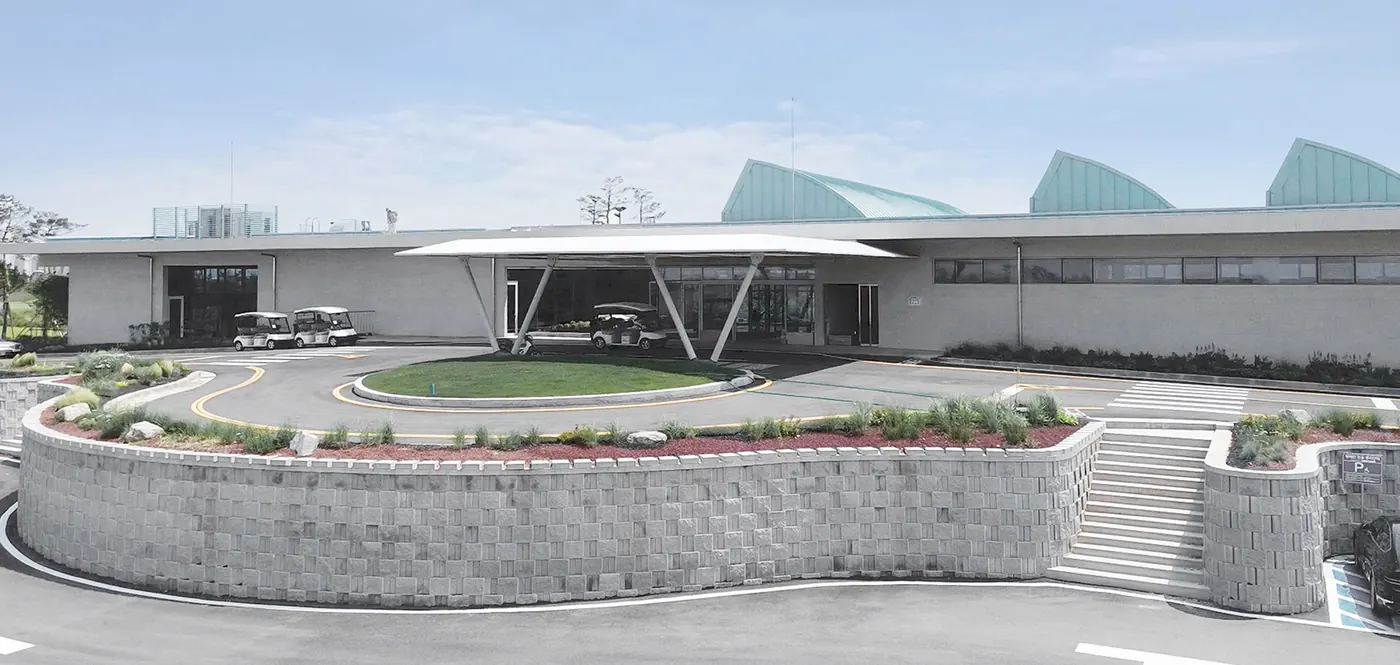
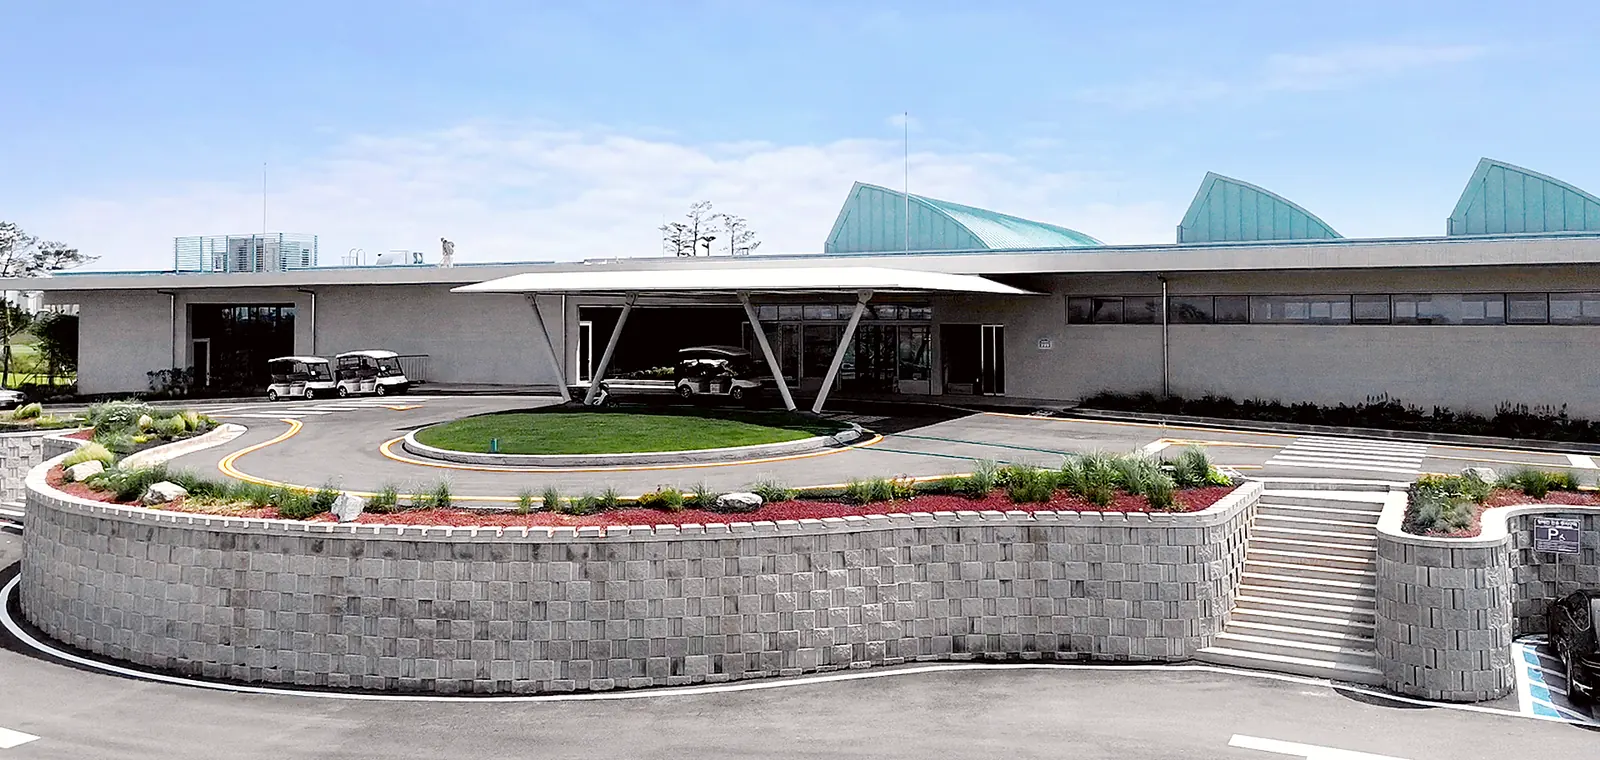
강점 중심 리디자인: 큰 숫자 4개, 사진 타일, 그린피 공식, 사진 색보정·히어로 교체

Changed region(s): [[0.0, 0.2105, 1.0, 0.9624], [0.5221, 0.2406, 0.645, 0.3308], [0.43, 0.3008, 0.4607, 0.3308]]

diff --git a/index.html b/index.html
@@ -11,12 +11,12 @@
   <meta name="Yeti" content="noindex, nofollow" />
 
   <title>플라밍고CC 이용권</title>
-  <meta name="description" content="라미드그룹이 운영하는 당진 플라밍고CC. 기명 2인과 동반 3인 모두 정상 그린피 50% 할인, 4,400만원부터" />
+  <meta name="description" content="당진 플라밍고CC 천연잔디 36홀. 기명 2인과 동반 3인 모두 정상 그린피 50% 할인, 4,400만원부터" />
   <meta name="theme-color" content="#17483a" />
   <meta property="og:type" content="website" />
   <meta property="og:url" content="https://culeisure.github.io/flamingocc/" />
   <meta property="og:title" content="플라밍고CC 이용권" />
-  <meta property="og:description" content="라미드그룹이 운영하는 당진 플라밍고CC. 기명 2인과 동반 3인 모두 정상 그린피 50% 할인, 4,400만원부터" />
+  <meta property="og:description" content="당진 플라밍고CC 천연잔디 36홀. 기명 2인과 동반 3인 모두 정상 그린피 50% 할인, 4,400만원부터" />
   <meta property="og:image" content="https://culeisure.github.io/flamingocc/img/og.jpg" />
   <meta property="og:image:width" content="1200" />
   <meta property="og:image:height" content="630" />
@@ -32,7 +32,7 @@
     href="https://cdn.jsdelivr.net/gh/orioncactus/pretendard@v1.3.9/dist/web/static/pretendard.min.css" />
   <link rel="stylesheet"
     href="https://fonts.googleapis.com/css2?family=Noto+Serif+KR:wght@400;500;600;700&display=swap" />
-  <link rel="stylesheet" href="style.css?v=2" />
+  <link rel="stylesheet" href="style.css?v=3" />
 </head>
 <body>
 
@@ -53,15 +53,15 @@
         <img class="lock__brand" src="img/logo.png" alt="Flamingo Country Club" />
       </div>
       <div class="lock__body">
-        <p class="lock__eyebrow">라미드그룹이 운영하는 당진 플라밍고CC</p>
-        <p class="lock__lead">주말 부킹 때마다<br />그린피가 부담이셨다면</p>
-        <h1 class="lock__title">동반자까지 그린피 50%<br /><em>4,400만원부터</em></h1>
+        <p class="lock__eyebrow">당진 플라밍고CC · 천연잔디 36홀</p>
+        <p class="lock__lead">나 혼자가 아니라<br />함께 치는 세 명까지</p>
+        <h1 class="lock__title">그린피 50%<br /><em>4,400만원부터</em></h1>
         <p class="lock__sub">플라밍고CC 이용권 안내</p>
         <ul class="lock__chips">
           <li>기명 2인 + 동반 3인</li>
-          <li>정상 그린피 50% 할인</li>
-          <li>천연잔디 36홀</li>
-          <li>만기 10년 이용권</li>
+          <li>정상 그린피 50%</li>
+          <li>만기 10년</li>
+          <li>명의변경 가능</li>
         </ul>
         <div class="lock__cta">
           <a class="btn btn--main" href="tel:01040873443" data-track="cta_call" data-track-pos="hero">전화 상담</a>
@@ -92,147 +92,119 @@
     </div>
 
     <main>
-      <!-- ===== 01 핵심 혜택 ===== -->
-      <section class="block block--intro reveal" aria-labelledby="ben-title">
+      <!-- ===== 01 한눈에 ===== -->
+      <section class="block block--intro reveal" aria-labelledby="fact-title">
         <span class="sec-label">01</span>
-        <h2 class="block__title" id="ben-title">플라밍고CC 이용권<br />핵심 혜택</h2>
-        <p class="block__desc">회원권이 아니라 이용권입니다. 입회비 없이 보증금과 시설이용관리비만 내고, 10년 동안 이용권 요금으로 라운드합니다.</p>
-        <ol class="benefits">
-          <li>
-            <span class="benefits__n">01</span>
-            <div>
-              <p class="benefits__t">정상 그린피 50% 할인</p>
-              <p class="benefits__d">예약 당일 골프장 정상 그린피의 50%를 냅니다. 회원 요금표가 따로 있는 방식이 아니라, 그날 그 시간대 정상 요금에서 반값입니다.</p>
-            </div>
-          </li>
-          <li>
-            <span class="benefits__n">02</span>
-            <div>
-              <p class="benefits__t">동반자 3인까지 동일 요금</p>
-              <p class="benefits__d">기명 2인 중 한 분이 함께 내장하면 동반자 3인까지 같은 요금으로 라운드합니다. 매번 같은 사람이 아니어도 됩니다.</p>
-            </div>
-          </li>
-          <li>
-            <span class="benefits__n">03</span>
-            <div>
-              <p class="benefits__t">주중 · 주말 횟수 별도 구성</p>
-              <p class="benefits__d">동반자 이용권은 주중 2회와 주말 2회, 무기명 이용권은 주중 3회와 주말 3회입니다. 주말 라운드가 많은 분에게 맞춘 구성입니다.</p>
-            </div>
-          </li>
-          <li>
-            <span class="benefits__n">04</span>
-            <div>
-              <p class="benefits__t">만기 10년 · 명의변경 가능</p>
-              <p class="benefits__d">10년 만기 이용권입니다. 중도 해지 대신 명의변경으로 다른 사람에게 넘길 수 있습니다.</p>
-            </div>
-          </li>
-        </ol>
+        <h2 class="block__title" id="fact-title">한눈에 보는 이용권</h2>
+        <div class="facts">
+          <div class="fact">
+            <b>50<small>%</small></b>
+            <span>그날 정상 그린피에서<br />절반 할인</span>
+          </div>
+          <div class="fact">
+            <b>2<i>+</i>3</b>
+            <span>기명 2인과<br />동반자 3인까지 동일</span>
+          </div>
+          <div class="fact">
+            <b>36<small>홀</small></b>
+            <span>매트 없는 천연잔디<br />4개 코스</span>
+          </div>
+          <div class="fact">
+            <b>10<small>년</small></b>
+            <span>만기 10년 이용권<br />명의변경 가능</span>
+          </div>
+        </div>
+        <p class="fact__foot">동반자 이용권 <b>4,400만원</b> · 무기명 이용권 <b>9,900만원</b></p>
       </section>
 
-      <!-- ===== 02 골프장 ===== -->
+      <!-- ===== 02 코스 강점 (사진 타일) ===== -->
       <section class="block block--tight reveal" aria-labelledby="course-title">
         <span class="sec-label">02</span>
-        <h2 class="block__title" id="course-title">매트 없는 천연잔디 36홀</h2>
-        <p class="block__desc">충남 당진 석문, 서해 간척지 34만 평에 링크스 · 파크 · 듄스 · 리버 네 개의 9홀 코스가 있습니다. 라미드그룹이 운영하며 2025년 12월 36홀 등록을 마쳤습니다.</p>
-        <div class="stats">
-          <div class="stats__item">
-            <b>36<small>홀</small></b>
-            <span>천연잔디<br />정규 코스</span>
-          </div>
-          <div class="stats__item">
-            <b>4<small>코스</small></b>
-            <span>링크스 · 파크<br />듄스 · 리버</span>
-          </div>
-          <div class="stats__item">
-            <b>705<small>m</small></b>
-            <span>링크스 2번 홀<br />국내 최장 파6</span>
-          </div>
-        </div>
+        <h2 class="block__title" id="course-title">왜 플라밍고CC인가</h2>
+        <p class="block__desc">서해 간척지 34만 평, 링크스 · 파크 · 듄스 · 리버 네 개의 9홀 코스. 라미드그룹이 운영하며 2025년 12월 36홀 등록을 마쳤습니다.</p>
       </section>
 
-      <section class="full reveal" aria-label="플라밍고CC 코스 전경">
-        <img src="img/course-wide.webp" alt="플라밍고CC 코스 항공 전경" loading="lazy" decoding="async" />
-        <div class="full__cap">
-          <p class="full__eyebrow">Flamingo Country Club</p>
-          <p>옆 홀이 보이지 않는<br />독립형 36홀</p>
-        </div>
+      <section class="tiles reveal" aria-label="플라밍고CC 코스 강점">
+        <figure class="tile tile--tall">
+          <img src="img/course-top.webp" alt="마운드와 연못으로 둘러싸인 그린" loading="lazy" decoding="async" />
+          <figcaption>
+            <span class="tile__k">독립 홀</span>
+            <b>라운드 내내<br />우리 팀만 보이는 코스</b>
+            <p>홀마다 마운드와 연못으로 가려져 옆 팀의 시선도, 날아드는 공도 없습니다. 전세 낸 듯 조용히 칩니다.</p>
+          </figcaption>
+        </figure>
+        <figure class="tile">
+          <img src="img/course-bunker.webp" alt="천연잔디 페어웨이와 벙커" loading="lazy" decoding="async" />
+          <figcaption>
+            <span class="tile__k">천연잔디</span>
+            <b>티박스부터 그린까지<br />매트 없이 잔디 위에서</b>
+            <p>관리된 잔디에서 치는 샷의 감각이 다릅니다.</p>
+          </figcaption>
+        </figure>
+        <figure class="tile">
+          <img src="img/aerial-sea.webp" alt="서해와 맞닿은 36홀 전경" loading="lazy" decoding="async" />
+          <figcaption>
+            <span class="tile__k">36홀</span>
+            <b>갈 때마다<br />다른 코스 조합</b>
+            <p>네 개 코스를 6홀 · 12홀 · 18홀로 조합합니다. 링크스 2번 홀은 국내 최장 705m 파6입니다.</p>
+          </figcaption>
+        </figure>
+        <figure class="tile">
+          <img src="img/clubhouse-night.webp" alt="플라밍고CC 클럽하우스 야경" loading="lazy" decoding="async" />
+          <figcaption>
+            <span class="tile__k">접근성</span>
+            <b>당진IC 15분,<br />수도권 서남부 1시간대</b>
+            <p>송악IC · 당진IC에서 4차선 산업도로로 바로 이어집니다.</p>
+          </figcaption>
+        </figure>
       </section>
 
-      <section class="block reveal" aria-label="플라밍고CC 코스 특징">
-        <ul class="points">
-          <li>
-            <span class="points__n">01</span>
-            <div>
-              <p class="points__t">홀 사이가 보이지 않는 독립형 코스</p>
-              <p class="points__d">평지형이지만 홀마다 마운드와 연못으로 구분되어 있어 라운드 중 옆 홀이 보이지 않습니다.</p>
-            </div>
-          </li>
-          <li>
-            <span class="points__n">02</span>
-            <div>
-              <p class="points__t">매트 없는 천연잔디 플레이</p>
-              <p class="points__d">매트 없이 천연잔디에서만 플레이합니다. 넓은 페어웨이와 티박스, 그린 관리에 공을 들이고 있습니다.</p>
-            </div>
-          </li>
-          <li>
-            <span class="points__n">03</span>
-            <div>
-              <p class="points__t">6홀 · 12홀 · 18홀 자유 조합</p>
-              <p class="points__d">9홀씩 네 개 코스를 6홀 · 12홀 · 18홀로 조합해 라운드합니다. 갈 때마다 다른 코스를 돌 수 있습니다.</p>
-            </div>
-          </li>
-          <li>
-            <span class="points__n">04</span>
-            <div>
-              <p class="points__t">송악IC · 당진IC 4차선 직결</p>
-              <p class="points__d">수도권 서남부에서 1시간대. 인천 · 시흥 · 안산 · 화성 · 평택에서 서해안고속도로로 이어집니다.</p>
-            </div>
-          </li>
-        </ul>
-
+      <section class="block reveal" aria-label="코스 구성">
         <ul class="courses">
           <li><span class="courses__k">링크스 <small>LINKS</small></span><b>Par 36 · 3,416m</b><em>2번 홀 705m 파6</em></li>
           <li><span class="courses__k">파크 <small>PARK</small></span><b>Par 36 · 3,290m</b></li>
           <li><span class="courses__k">듄스 <small>DUNES</small></span><b>Par 36 · 3,227m</b></li>
           <li><span class="courses__k">리버 <small>RIVER</small></span><b>Par 36 · 3,200m</b></li>
         </ul>
-
         <div class="gal" role="list">
-          <figure role="listitem"><img src="img/course-top.webp" alt="플라밍고CC 그린과 연못" loading="lazy" decoding="async" /><figcaption>그린과 연못, 위에서 본 코스</figcaption></figure>
-          <figure role="listitem"><img src="img/aerial-sea.webp" alt="서해를 배경으로 한 코스 전경" loading="lazy" decoding="async" /><figcaption>서해 간척지 위의 링크스</figcaption></figure>
-          <figure role="listitem"><img src="img/clubhouse-night.webp" alt="플라밍고CC 클럽하우스 야경" loading="lazy" decoding="async" /><figcaption>클럽하우스 야경</figcaption></figure>
           <figure role="listitem"><img src="img/terrace.webp" alt="클럽하우스 테라스" loading="lazy" decoding="async" /><figcaption>코스를 마주한 클럽하우스 테라스</figcaption></figure>
           <figure role="listitem"><img src="img/restaurant.webp" alt="클럽하우스 레스토랑" loading="lazy" decoding="async" /><figcaption>클럽하우스 레스토랑</figcaption></figure>
+          <figure role="listitem"><img src="img/course-lake.webp" alt="연못을 낀 홀" loading="lazy" decoding="async" /><figcaption>연못을 낀 홀</figcaption></figure>
         </div>
       </section>
 
-      <!-- ===== 03 그린피 계산 ===== -->
+      <!-- ===== 03 그린피 ===== -->
       <section class="block block--dark reveal" aria-labelledby="fee-title">
         <span class="sec-label">03</span>
-        <h2 class="block__title" id="fee-title">그린피 산정 방식</h2>
-        <p class="block__desc">예약하는 시점에 골프장 홈페이지에 공지된 정상 그린피에서 <strong>50%</strong>를 할인합니다. 시간대별로 정상 요금이 다르면 할인 후 금액도 달라집니다.</p>
-        <ul class="flow">
+        <h2 class="block__title" id="fee-title">회원 그린피는<br />그날 정상 그린피의 절반</h2>
+        <p class="block__desc">회원 요금표가 따로 있는 방식이 아닙니다. 예약하는 날, 그 시간대의 정상 그린피에서 50%를 뺀 금액이 회원 그린피입니다.</p>
+        <div class="formula">
+          <div class="formula__box"><small>그날 그 시간대</small><b>정상 그린피</b></div>
+          <span class="formula__op">÷ 2</span>
+          <div class="formula__box formula__box--hl"><small>기명 · 동반 3인 동일</small><b>회원 그린피</b></div>
+        </div>
+        <ul class="why">
           <li>
-            <b>이른 예약, 원하는 시간 확보</b>
-            <p>일찍 예약해 좋은 시간을 잡으면 그 시간대 정상 그린피의 50%를 냅니다.</p>
+            <b>정해진 회원가에 묶이지 않습니다</b>
+            <p>고정 회원가는 정상가가 내려가도 그대로입니다. 이 이용권은 정상가가 내려가면 회원가도 같이 내려갑니다.</p>
           </li>
           <li>
-            <b>늦은 예약, 내려간 요금의 50%</b>
-            <p>남은 시간대의 정상 그린피가 내려가 있으면 그 금액에서 다시 50%를 할인합니다.</p>
+            <b>시간대를 고르는 것은 회원의 몫</b>
+            <p>원하는 시간을 먼저 잡으면 그 시간대 요금의 절반, 요금이 내려간 시간대를 고르면 그 요금의 절반입니다.</p>
           </li>
           <li>
-            <b>취소 후 재예약도 동일 적용</b>
-            <p>취소가 가능한 기간이라면 취소 후 다시 예약해도 같은 방식으로 적용됩니다.</p>
+            <b>팀 전체가 절반</b>
+            <p>회원만 할인되고 동반자는 정상가인 방식이 아닙니다. 기명 2인 중 한 분이 함께 내장하면 동반자 3인까지 같은 요금입니다.</p>
           </li>
         </ul>
-        <p class="fine fine--dark">· 예약은 골프장 일반 예약 절차로 진행됩니다. 예약 우선권이나 예약 보장이 있는 상품은 아닙니다.</p>
+        <p class="fine fine--dark">· 예약은 골프장 일반 예약 절차로 진행되며 예약 우선권이나 예약 보장은 없습니다. 카트비는 별도입니다.</p>
       </section>
 
       <!-- ===== 04 이용권 ===== -->
       <section class="block reveal" aria-labelledby="prod-title">
         <span class="sec-label">04</span>
-        <h2 class="block__title" id="prod-title">동반자 4,400만원 ·<br />무기명 9,900만원</h2>
-        <p class="block__desc">함께 라운드하는 사람이 정해져 있는지, 횟수가 얼마나 필요한지에 따라 선택합니다.</p>
+        <h2 class="block__title" id="prod-title">이용권 2종</h2>
+        <p class="block__desc">함께 치는 사람이 정해져 있으면 동반자 이용권, 이용자를 정하지 않고 쓰려면 무기명 이용권입니다.</p>
 
         <article class="card">
           <div class="card__head">
@@ -242,7 +214,7 @@
           <ul class="card__rows">
             <li><span>이용자</span><b>기명 2인 + 동반 3인 <small>기명 2인 중 1인 내장</small></b></li>
             <li><span>이용 횟수</span><b>주중 2회 · 주말 2회</b></li>
-            <li><span>그린피</span><b>정상 그린피 50% 할인 <small>동반자 동일 적용</small></b></li>
+            <li><span>그린피</span><b>정상 그린피 50% <small>동반자 동일 적용</small></b></li>
             <li><span>금액 구성</span><b>보증금 4,000만원<br /><small>시설이용관리비 400만원은 반환되지 않는 비용</small></b></li>
             <li><span>기간</span><b>만기 10년 · 명의변경 가능</b></li>
           </ul>
@@ -255,9 +227,9 @@
             <p class="card__price"><em>9,900</em>만원</p>
           </div>
           <ul class="card__rows">
-            <li><span>이용자</span><b>기명 2인 + 동반 3인, 또는 무기명 4인<br /><small>6회 모두 무기명으로 이용할 수 있습니다</small></b></li>
+            <li><span>이용자</span><b>기명 2인 + 동반 3인, 또는 무기명 4인<br /><small>6회 모두 무기명으로 이용 가능</small></b></li>
             <li><span>이용 횟수</span><b>주중 3회 · 주말 3회</b></li>
-            <li><span>그린피</span><b>정상 그린피 50% 할인 <small>무기명 4인 동일 적용</small></b></li>
+            <li><span>그린피</span><b>정상 그린피 50% <small>무기명 4인 동일 적용</small></b></li>
             <li><span>금액 구성</span><b>보증금 9,000만원<br /><small>시설이용관리비 900만원은 반환되지 않는 비용</small></b></li>
             <li><span>기간</span><b>만기 10년 · 명의변경 가능</b></li>
             <li><span>활용</span><b>임직원 라운드 · 거래처 초청 <small>법인 이용에 적합</small></b></li>

diff --git a/style.css b/style.css
@@ -70,7 +70,7 @@ ul { list-style: none; }
 .lock__bg { position: absolute; inset: 0; }
 .lock__bg img {
   width: 100%; height: 100%;
-  object-fit: cover; object-position: center 55%;
+  object-fit: cover; object-position: center 50%;
   animation: heroZoom 14s ease-out both;
 }
 @keyframes heroZoom {
@@ -708,3 +708,73 @@ ul { list-style: none; }
   width: 3px; height: 3px; border-radius: 50%;
   background: var(--ink-soft);
 }
+
+/* ---------- 큰 숫자 4개 ---------- */
+.facts { display: grid; grid-template-columns: 1fr 1fr; gap: 10px; }
+.fact {
+  background: var(--paper);
+  border: 1px solid var(--line);
+  border-radius: 14px;
+  padding: 20px 14px 18px;
+  text-align: center;
+  box-shadow: var(--shadow);
+}
+.fact b {
+  display: block;
+  font-family: var(--serif);
+  font-size: 40px; font-weight: 700; line-height: 1;
+  color: var(--pine);
+  letter-spacing: -0.02em;
+  white-space: nowrap;
+}
+.fact b small { font-size: 16px; font-weight: 600; color: var(--flam); margin-left: 2px; }
+.fact b i { font-style: normal; font-size: 24px; color: var(--flam); margin: 0 2px; }
+.fact span { display: block; margin-top: 10px; font-size: 12.5px; line-height: 1.5; color: var(--ink-soft); }
+.fact__foot { margin-top: 14px; text-align: center; font-size: 13px; color: var(--ink-soft); }
+.fact__foot b { color: var(--pine); font-weight: 700; }
+
+/* ---------- 사진 타일 ---------- */
+.tiles { display: grid; grid-template-columns: 1fr 1fr; gap: 6px; padding: 0 6px; }
+.tile { position: relative; overflow: hidden; border-radius: 12px; background: var(--pine); margin: 0; }
+.tile--tall { grid-column: 1 / -1; }
+.tile img { width: 100%; height: 100%; aspect-ratio: 1 / 1.15; object-fit: cover; }
+.tile--tall img { aspect-ratio: 4 / 3.1; }
+.tile figcaption {
+  position: absolute; left: 0; right: 0; bottom: 0;
+  padding: 70px 16px 16px;
+  background: linear-gradient(180deg, transparent, rgba(10, 30, 24, 0.62) 40%, rgba(10, 30, 24, 0.9));
+  color: #f8f5ee;
+}
+.tile__k {
+  display: inline-block;
+  font-size: 10.5px; font-weight: 700; letter-spacing: 0.1em;
+  color: var(--flam-2);
+  border: 1px solid rgba(233, 143, 176, 0.6);
+  border-radius: 999px;
+  padding: 3px 9px;
+  margin-bottom: 8px;
+}
+.tile b { display: block; font-family: var(--serif); font-size: 16px; font-weight: 700; line-height: 1.38; }
+.tile--tall b { font-size: 20px; }
+.tile p { margin-top: 6px; font-size: 12px; line-height: 1.55; color: rgba(248, 245, 238, 0.85); }
+.tile:not(.tile--tall) p { display: none; }
+@media (min-width: 480px) { .tile:not(.tile--tall) p { display: block; } }
+
+/* ---------- 그린피 공식 ---------- */
+.formula { display: flex; align-items: stretch; gap: 8px; margin: 4px 0 22px; }
+.formula__box {
+  flex: 1;
+  border: 1px solid rgba(237, 241, 234, 0.35);
+  border-radius: 12px;
+  padding: 14px 10px;
+  text-align: center;
+}
+.formula__box small { display: block; font-size: 11px; color: rgba(237, 241, 234, 0.7); margin-bottom: 4px; }
+.formula__box b { font-family: var(--serif); font-size: 17px; font-weight: 700; color: #fff; }
+.formula__box--hl { background: var(--flam); border-color: var(--flam); }
+.formula__box--hl small { color: rgba(255, 255, 255, 0.85); }
+.formula__op { align-self: center; font-family: var(--serif); font-size: 22px; font-weight: 700; color: var(--flam-2); flex: none; }
+.why { border-top: 1px solid rgba(233, 143, 176, 0.5); }
+.why li { padding: 15px 2px; border-bottom: 1px solid rgba(237, 241, 234, 0.16); }
+.why b { display: block; font-size: 15.5px; font-weight: 700; color: #fff; }
+.why p { margin-top: 5px; font-size: 13px; line-height: 1.65; color: rgba(237, 241, 234, 0.82); }
